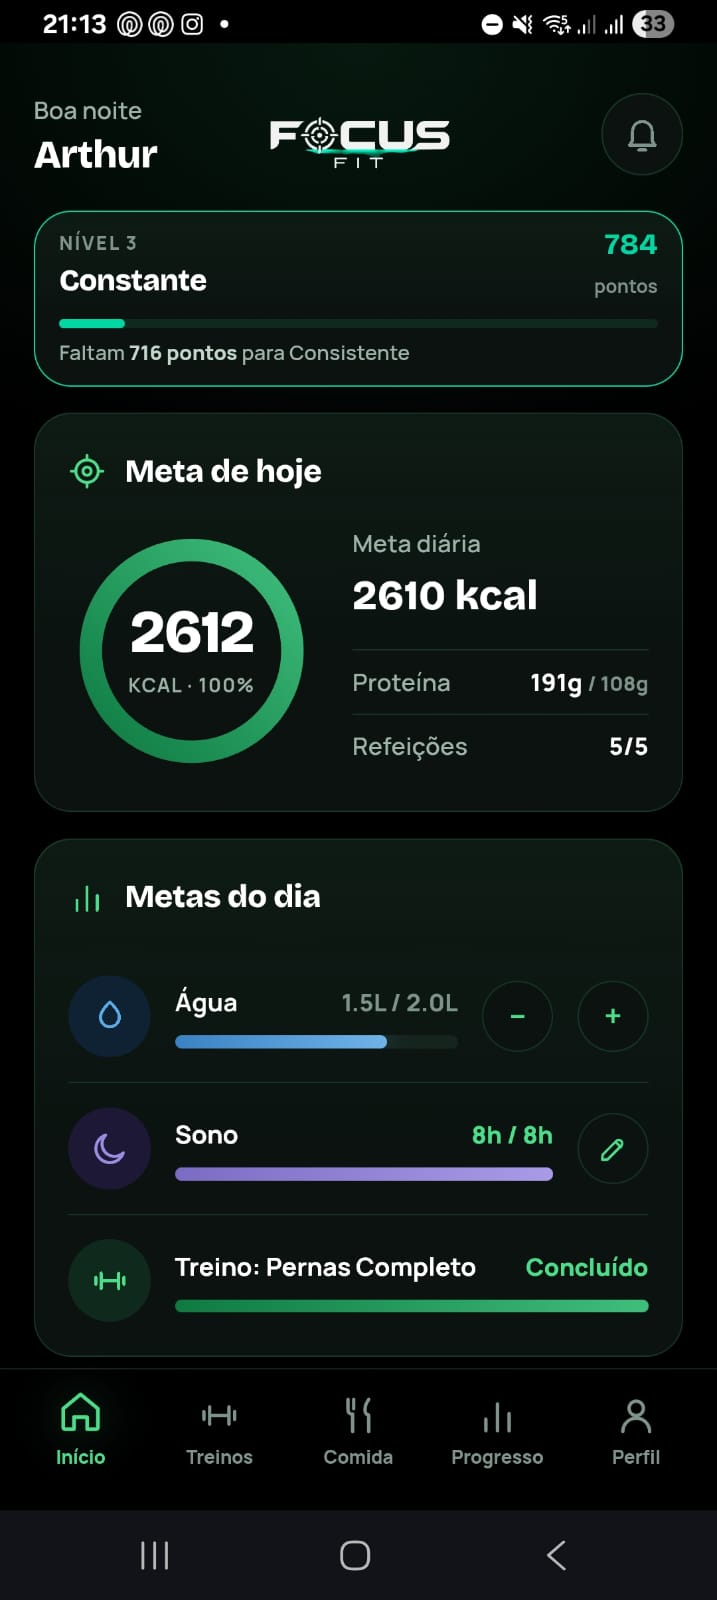
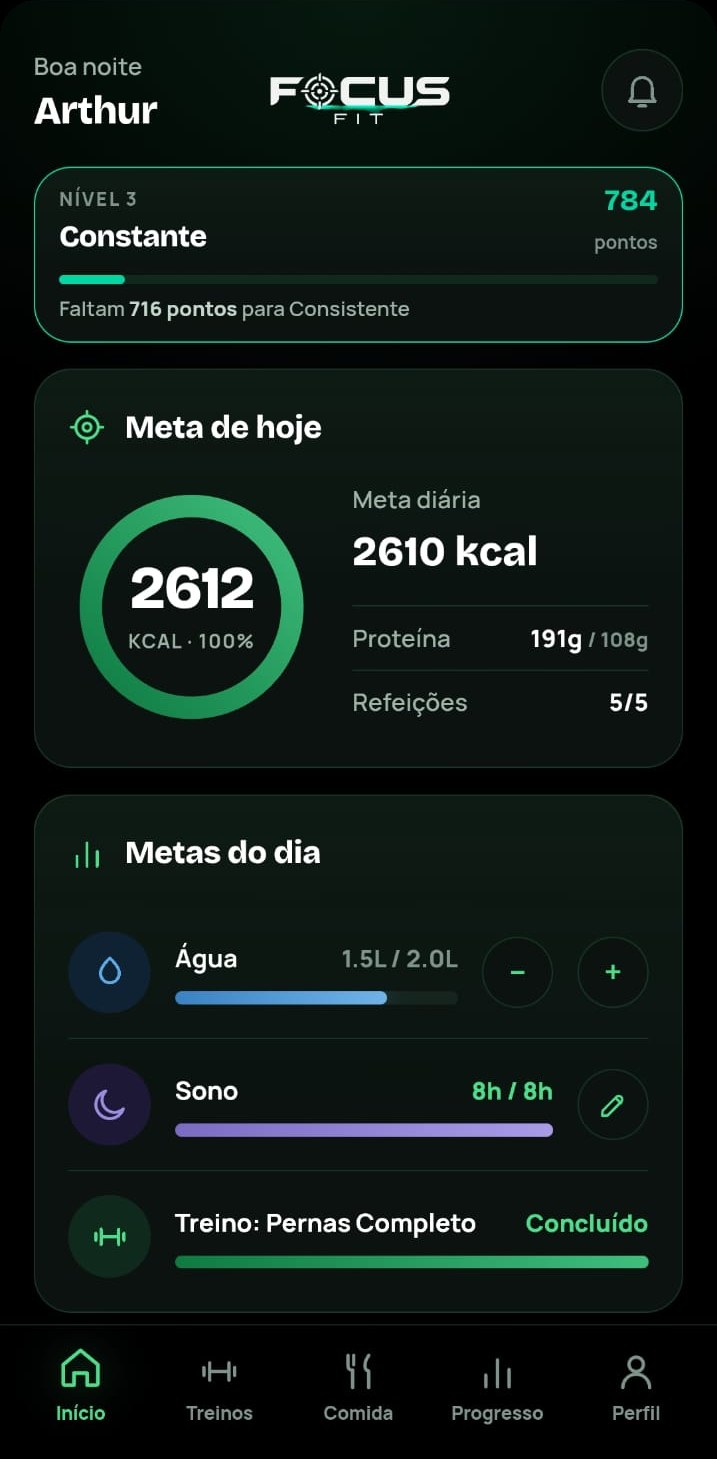
Quiz: refaz a tela de análise com depoimentos reais de clientes, cortes de tela do carrossel da abertura
- Tela "Analisando suas respostas...": remove os 5 círculos com
  mensagens fabricadas, deixa o título acima da barra fina, mostra a
  porcentagem contando de 0 a 100 acima dela, e cicla os 4 prints
  reais de conversa com clientes (Cliente-1 a 4, subidos direto no
  GitHub) a cada 2s, ocupando a largura toda da tela. Duração total
  sobe de 5s pra 8s.
- Prints do carrossel da abertura: corta a barra de status e a barra
  de navegação do celular, com cantos arredondados.

Claude-Session: https://claude.ai/code/session_01GTQCKMpUNSLXQ4dew3cFVq

diff --git a/quiz/escuro.html b/quiz/escuro.html
@@ -846,7 +846,7 @@ function renderIntro(){
       <p class="hero-sub">Descubra como desenvolver um corpo estético, atraente e forte, de forma inteligente em menos de 30 dias.</p>
 
       <div id="intro-print-wrap"
-           style="position:relative;width:62%;max-width:230px;margin:26px auto 0;aspect-ratio:717/1600;border-radius:16px;overflow:hidden;background:#000;box-shadow:0 10px 26px rgba(0,0,0,.4);"
+           style="position:relative;width:62%;max-width:230px;margin:26px auto 0;aspect-ratio:717/1459;border-radius:16px;overflow:hidden;background:#000;box-shadow:0 10px 26px rgba(0,0,0,.4);"
            onmousedown="pausarPrints()" onmouseup="retomarPrints()" onmouseleave="retomarPrints()"
            ontouchstart="pausarPrints()" ontouchend="retomarPrints()" ontouchcancel="retomarPrints()">
         <div id="intro-print-track" style="display:flex;width:${(INTRO_PRINTS.length+1)*100}%;height:100%;">
@@ -1613,80 +1613,53 @@ function selectCompromisso(i){
 }
 
 /* ---------- ANALISANDO ---------- */
-/* itens reais do que o app calcula/monta a partir das respostas — nada
-   fabricado, só nomes honestos pros passos que 'metaKcal()', o plano de
-   treino/cardápio e o sistema de pontos do próprio Focus Fit já fazem.
-   Todas chegam a 100% (ver EXPOENTES em renderAnalyzing, que dá uma
-   velocidade própria pra cada uma sem desalinhar do fim da animação). */
-const ANALISANDO_ITENS = [
-  'Perfil analisado',
-  'Meta calórica calculada',
-  'Plano de treino montado',
-  'Cardápio personalizado gerado',
-  'Sistema de pontos e níveis ativado'
-];
+
+const CLIENTES_FOTOS = ['/Cliente-1.jpeg','/Cliente-2.jpeg','/Cliente-3.jpeg','/Cliente-4.jpeg'];
+let clientesTimer = null;
 
 function renderAnalyzing(){
-  const RAIO = 42, CIRC = 2*Math.PI*RAIO;
   app.innerHTML = `
   <div class="wrap fade">
     <div class="card-quiz" style="padding-top:44px;padding-bottom:52px;">
+      <div class="analise-title" style="margin-bottom:10px;">Analisando suas respostas...</div>
+      <div id="topoPct" style="text-align:center;font-size:32px;font-weight:900;color:var(--verde-claro);font-variant-numeric:tabular-nums;margin-bottom:10px;">0%</div>
       <div class="progress-bar"><div class="progress-fill" id="topoFill" style="width:0%;transition:none;"></div></div>
-      <div class="analise-title" style="margin-top:22px;">Analisando suas respostas...</div>
-      <p style="text-align:center;font-size:16px;font-weight:800;color:#c3d4cb;line-height:1.4;margin:0 0 26px;">Em poucos segundos o seu plano personalizado fica pronto.</p>
-      <div style="display:grid;grid-template-columns:1fr 1fr;gap:20px 10px;">
-        ${ANALISANDO_ITENS.map((label,i)=>`
-        <div style="text-align:center;${i===ANALISANDO_ITENS.length-1 && ANALISANDO_ITENS.length%2===1 ? 'grid-column:1/-1;' : ''}">
-          <div style="position:relative;width:104px;height:104px;margin:0 auto 10px;">
-            <svg width="104" height="104" viewBox="0 0 104 104" style="transform:rotate(-90deg);">
-              <circle cx="52" cy="52" r="${RAIO}" fill="none" stroke="rgba(255,255,255,.1)" stroke-width="9"/>
-              <circle cx="52" cy="52" r="${RAIO}" fill="none" stroke="url(#circGrad)" stroke-width="9" stroke-linecap="round" stroke-dasharray="${CIRC}" stroke-dashoffset="${CIRC}" id="itemCirc${i}"/>
-            </svg>
-            <div style="position:absolute;inset:0;display:flex;align-items:center;justify-content:center;font-weight:900;font-size:18px;color:var(--verde-claro);font-variant-numeric:tabular-nums;" id="itemPct${i}">0%</div>
-          </div>
-          <div style="font-size:15px;font-weight:800;color:var(--verde-claro);line-height:1.35;">${label}...</div>
-        </div>`).join('')}
-        <svg width="0" height="0" style="position:absolute;">
-          <defs><linearGradient id="circGrad" x1="0" y1="0" x2="1" y2="1">
-            <stop offset="0%" style="stop-color:var(--verde)"/>
-            <stop offset="100%" style="stop-color:var(--verde-claro)"/>
-          </linearGradient></defs>
-        </svg>
+      <p style="text-align:center;font-size:16px;font-weight:800;color:#c3d4cb;line-height:1.4;margin:22px 0 22px;">Em poucos segundos o seu plano personalizado fica pronto.</p>
+
+      <div id="cliente-wrap" style="position:relative;width:100%;margin:0 auto;aspect-ratio:3/4;border-radius:14px;overflow:hidden;background:#000;box-shadow:0 10px 26px rgba(0,0,0,.4);">
+        <img id="cliente-img" src="${CLIENTES_FOTOS[0]}" alt="Depoimento de cliente" style="width:100%;height:100%;object-fit:cover;display:block;transition:opacity .2s ease;" onerror="this.style.display='none'">
       </div>
     </div>
   </div>`;
-  const DUR = 5000;                                    // total da animação
+
+  /* pré-carrega os 4 depoimentos assim que a tela abre (mesma lição da
+     tela de comunidade: sem isso, a troca a cada 2s pode chegar antes
+     do download terminar). */
+  CLIENTES_FOTOS.forEach(src => { const im = new Image(); im.src = src; });
+
+  let ci = 0;
+  const clienteImg = document.getElementById('cliente-img');
+  clientesTimer = setInterval(() => {
+    if (!clienteImg || !document.body.contains(clienteImg)) { clearInterval(clientesTimer); return; }
+    ci = (ci + 1) % CLIENTES_FOTOS.length;
+    clienteImg.style.opacity = '0';
+    setTimeout(() => { clienteImg.src = CLIENTES_FOTOS[ci]; clienteImg.style.opacity = '1'; }, 180);
+  }, 2000);
+
+  const DUR = 8000;                                    // total da animação
   const topoFill = document.getElementById('topoFill');
-  /* cada item usa um expoente diferente pra "dobrar" o tempo antes de
-     aplicar o smootherstep — isso faz cada círculo ter sua própria
-     velocidade (um dispara na frente, outro demora pra engatar), mas
-     como pow(0,k)=0 e pow(1,k)=1 pra qualquer k>0, todos ainda fecham
-     exatos em 100% no mesmo instante final, sem desalinhar do timer. */
-  const EXPOENTES = [0.5, 1.5, 0.75, 1.9, 1.1];
-  const itens = ANALISANDO_ITENS.map((item,i)=>({
-    k: EXPOENTES[i % EXPOENTES.length],
-    pctEl: document.getElementById('itemPct'+i),
-    circEl: document.getElementById('itemCirc'+i),
-    ultimo: -1
-  }));
+  const topoPct = document.getElementById('topoPct');
   const smootherstep = x => x*x*x*(x*(x*6-15)+10);
   const startT = performance.now();
   function tick(now){
     const t = Math.min(1,(now-startT)/DUR);
-    if(topoFill) topoFill.style.width = (smootherstep(t)*100)+'%';
-    itens.forEach(it=>{
-      const exato = smootherstep(Math.pow(t, it.k))*100;
-      if(it.circEl) it.circEl.style.strokeDashoffset = CIRC*(1-exato/100);   // precisão de fração, pra não travar
-      const pct = Math.round(exato);
-      if(pct!==it.ultimo){
-        if(it.pctEl) it.pctEl.textContent = pct+'%';           // número só repinta quando o inteiro muda
-        it.ultimo = pct;
-      }
-    });
+    const pct = smootherstep(t)*100;
+    if(topoFill) topoFill.style.width = pct+'%';
+    if(topoPct) topoPct.textContent = Math.round(pct)+'%';
     if(t<1) requestAnimationFrame(tick);
   }
   requestAnimationFrame(tick);
-  setTimeout(()=>go(1),DUR);
+  setTimeout(()=>{ clearInterval(clientesTimer); go(1); },DUR);
 }
 
 
